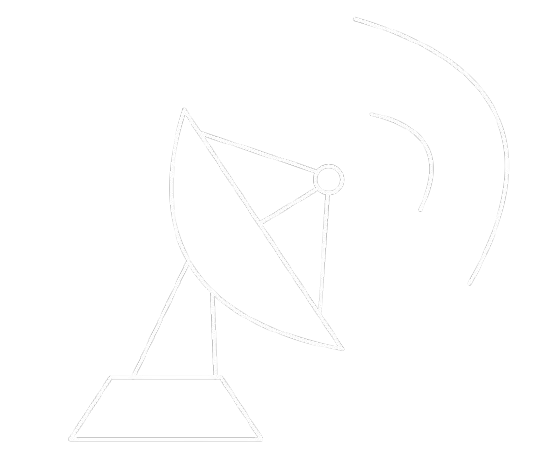
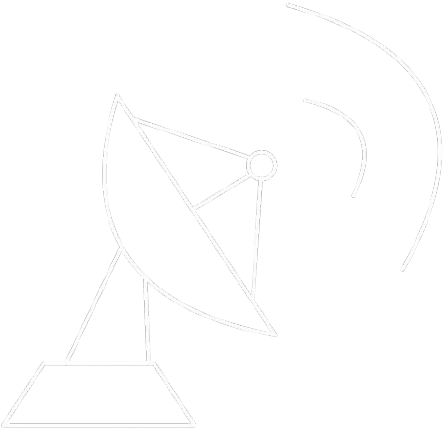
3rd hackathon commit 12:55pm

diff --git a/kosmomart/src/screens.js b/kosmomart/src/screens.js
@@ -12,7 +12,7 @@ import {
 import "./screens.css";
 import { gsap } from "gsap";
 import { TextPlugin } from "gsap/TextPlugin";
-import { generateEncounter, generateEncounter2 } from "./alienframework";
+import { generateEncounter} from "./alienframework";
 import { SatAnimation } from "./helper";
 gsap.registerPlugin(TextPlugin);
 
@@ -66,37 +66,38 @@ export function StartScreen() {
 }
 
 export function SecondScreen() {
-  const fullText =
-    "Humanity has been ravaged by WW3, and in a last ditch effort to save themselves, they looked to the stars for guidance. They sent you, a fledging astronaut, to find help.\n Unfortunately, you used chatgpt to write your application essay, and thus, no nothing about flying a spaceship or intergalatic diplomacy.\n .";
+  const sentences = [
+    "Humanity has been ravaged by WW3, and in a last ditch effort to save themselves, they looked to the stars for guidance.",
+    "They sent you, a fledgling astronaut, to find help.",
+    "Unfortunately, you used chatgpt to write your application essay, and thus, know nothing about flying a spaceship or intergalactic diplomacy.",
+    "With no fuel in the tank, and no money in your pocket, you land at the most famous crossroads in all of space: The KosmoMart convenience store."
+  ];
+
   const navigate = useNavigate();
   const textRef = useRef(null);
 
   useEffect(() => {
     if (textRef.current) {
-      const timeline = gsap.timeline({ repeat: -1 });
+      const tl = gsap.timeline({ repeat: -1 });
 
-      timeline
-        .to(textRef.current, {
-          duration: 5,
-          text: {
-            value: fullText,
-            delimiter: "",
-          },
+      sentences.forEach((sentence) => {
+        tl.to(textRef.current, {
+          duration: sentence.length * 0.03,
+          text: { value: sentence, delimiter: "" },
           ease: "none",
         })
         .to(textRef.current, {
-          duration: 1.5,
-          opacity: 1,
-          ease: "power2.inOut",
+          duration: 1,
+          delay: 0.5,
         })
         .to(textRef.current, {
-          duration: 2,
-          opacity: 0.7,
-          ease: "power2.inOut",
-          delay: 2,
+          duration: sentence.length * 0.015,
+          text: { value: "", delimiter: "" },
+          ease: "none"
         });
+      });
 
-      return () => timeline.kill();
+      return () => tl.kill();
     }
   }, []);
 
@@ -137,19 +138,69 @@ export function TutorialScreen() {
         { opacity: 1, y: 0, duration: 1.2, ease: "power2.out" }
       );
 
-      // Animate terminal text
-      gsap.to(terminalTextRef.current, {
-        duration: 2,
-        text: { value: "TERMINAL READY >> AWAITING COMMANDS", delimiter: "" },
-        ease: "steps(30)",
-        repeat: -1,
-        repeatDelay: 1,
-        yoyo: true,
-      });
-
+     
       // Timeline for typing "PROCEED ?"
       typingTimeline = gsap.timeline();
       typingTimeline
+      .to(terminalTextRef.current, {
+        duration: 4,
+        text: { value: "TERMINAL READY >> INITIATING LINK ", delimiter: "" },
+        ease: "steps(40)",
+      })
+      .to(terminalTextRef.current, {
+        duration: 2,
+        text: { value: "", delimiter: "" },
+        ease: "steps(30)",
+        delay: 2,
+      })
+      .to(terminalTextRef.current, {
+        duration: 7,
+        text: { value: " \nP1L0T come in...The following debrief has been cleared for comms. ", delimiter: "" },
+        ease: "steps(40)",
+ 
+    
+      })
+      .to(terminalTextRef.current, {
+        duration: 2,
+        text: { value: "", delimiter: "" },
+        ease: "steps(30)",
+        delay: 2,
+      })
+      .to(terminalTextRef.current, {
+        duration: 4,
+        text: { value: "Upon traveling the stars, you will encounter alien species. Due to your helmet's translation limitations, alien names will be simplified into potential nonsensical english.", delimiter: "" },
+        ease: "steps(30)",
+
+      })
+      .to(terminalTextRef.current, {
+        duration: 2,
+        text: { value: "", delimiter: "" },
+        ease: "steps(30)",
+        delay: 4,
+      })
+      .to(terminalTextRef.current, {
+        duration: 4,
+        text: { value: "Additionally, your helmet does not contain human to extraterrestial translation. There are other ways to communicate.", delimiter: "" },
+        ease: "steps(30)",
+      })
+      .to(terminalTextRef.current, {
+        duration: 2,
+        text: { value:  "", delimiter: "" },
+        ease: "steps(30)",
+        delay: 3,
+      })
+      .to(terminalTextRef.current, {
+        duration: 4,
+        text: { value: "Remember, P1L0T, complete the mission. At all costs.", delimiter: "" },
+        ease: "steps(30)",
+        repeat: -1,
+        repeatDelay: 10,
+      })
+
+
+
+      
+      
         .to(proceedTextRef.current, {
           duration: 1, // Duration for "PROCEED "
           text: { value: "PROCEED", delimiter: "" },
@@ -203,6 +254,8 @@ export function TutorialScreen() {
     <div className="App">
       <header className="App-header">
         <SatAnimation />
+        <br />
+        <br />
         <h2 id="titleCss" ref={titleRef}>
           Mission Control
         </h2>
@@ -237,15 +290,43 @@ export function TutorialScreen() {
   );
 }
 
-// Add EncounterScreen placeholder if it doesn't exist
 export function EncounterScreen() {
+  const navigate = useNavigate();
+  const alienName = generateEncounter().replace("_", " ") + " ";
+
+  return (
+    <div className="App">
+      <header className="App-header">
+        <h2>
+          A {alienName}stops a few meters from your viewport.
+        </h2>
+        <br />
+        <button
+          onClick={() => navigate("/game")}
+          style={{
+            background: "transparent",
+            border: "none",
+            color: "inherit",
+            fontSize: "1.1rem",
+            cursor: "pointer",
+            marginTop: "20px",
+          }}
+        >
+          <code className="animated-text">Continue</code>
+        </button>
+      </header>
+    </div>
+  );
+}
+
+export function GameScreen() {
   // Placeholder content for the next screen
   const navigate = useNavigate();
   return (
     <div className="App">
       <header className="App-header">
         <h2>
-          A {generateEncounter2().replace("_", " ") + " "} 
+          A {generateEncounter().replace("_", " ") + " "} 
            stops a few meters from your viewport.
         </h2>{" "}
         {/* Add encounter logic here */}

diff --git a/kosmomart/src/alienframework.js b/kosmomart/src/alienframework.js
@@ -1,36 +1,22 @@
 import {
-  uniqueUsernameGenerator,
-  Config,
-  adjectives,
-  nouns,
-} from "unique-username-generator";
-
-const {
   uniqueNamesGenerator,
+  adjectives,
   animals,
-  starWars,
-  names,
-} = require("unique-names-generator");
-
+} from "unique-names-generator";
 
 
 const config = {
   dictionaries: [adjectives],
 };
 
-const randAlienName = uniqueNamesGenerator({
-  dictionaries: [adjectives, animals],
-  length: 2,
-});
-
-export function generateEncounter() {
-  return randAlienName;
+function generateName(){
+  return uniqueNamesGenerator({
+    dictionaries: [adjectives, adjectives, animals],
+    separator: ' ',
+    style: 'capital',
+  });
 }
 
-export function generateEncounter2() {
-  const username = uniqueUsernameGenerator(config);
-  return username + " " + uniqueNamesGenerator({
-    dictionaries: [names],
-    length: 1,
-  });
+export function generateEncounter() {
+  return generateName()
 }

diff --git a/kosmomart/src/App.js b/kosmomart/src/App.js
@@ -1,7 +1,7 @@
 import './App.css';
 import React, { useState, useEffect } from 'react';
 import { BrowserRouter as Router, Route, Routes, Link, useNavigate } from 'react-router-dom';
-import { StartScreen, SecondScreen, TutorialScreen, EncounterScreen } from './screens';
+import { StartScreen, SecondScreen, TutorialScreen, EncounterScreen, GameScreen } from './screens';
 
 function App() {
   return (
@@ -11,6 +11,8 @@ function App() {
         <Route path="/second" element={<SecondScreen />} />
         <Route path="/tutorial" element={<TutorialScreen />} />
         <Route path="/encounter" element={<EncounterScreen />} />
+        <Route path="/game" element={<GameScreen />} />
+
       </Routes>
     </Router>
   );

diff --git a/kosmomart/src/screens.css b/kosmomart/src/screens.css
@@ -69,5 +69,7 @@ titleCss{
 
 #satImage{
     height: auto;
-    width: 30%;
+    width: 20%;
+    position: relative;
+    top: 20%;
 }
